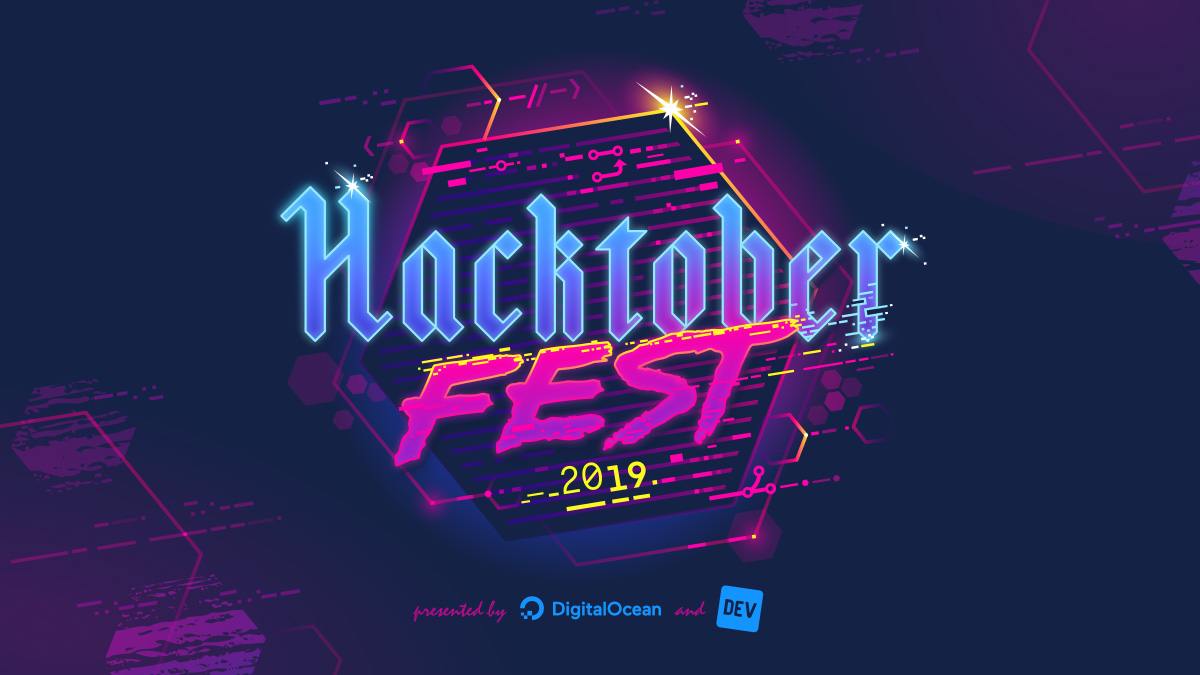
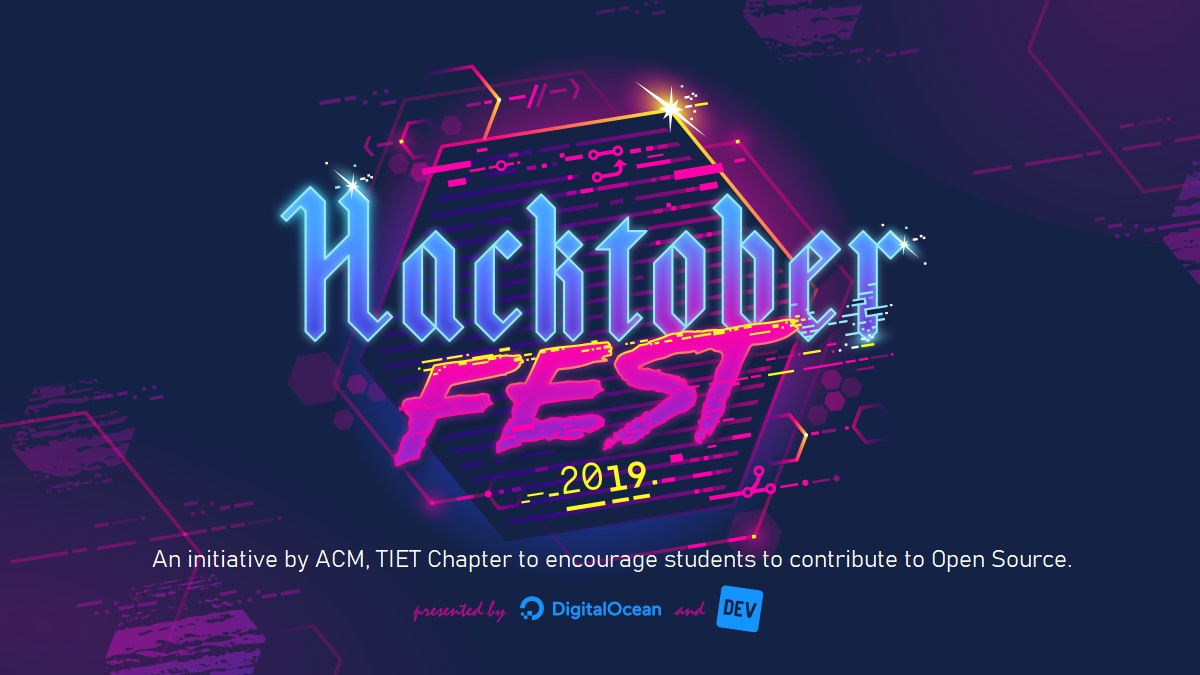
background formatting changes

diff --git a/index.html b/index.html
@@ -38,35 +38,12 @@
       <div class="row">
         <div class="col-lg-10 mx-auto">  
         </div>
-        <br>
-        <br>
-        <br>
-        <br>
-        <br>
-        <br>  
-        <br>
-        <br>
-        <br>
-        <br>
-        <br>
-        <br>
-        <br>
-        <br>  
-        <br>
-        <br>
-        <br>
-        <br>
-        <br>
-        <br>
-        <br>
-        <br>
-        <br>
-        <div class="col-lg-8 mx-auto">
+        <!-- <div class="col-lg-8 mx-auto">
           <p class="text-faded mb-5">An initiative by ACM, TIET Chapter to encourage students to contribute to Open Source.</p>
           <br>
           <br>
       
-        </div>
+        </div> -->
       </div>
     </div>
   </header>
